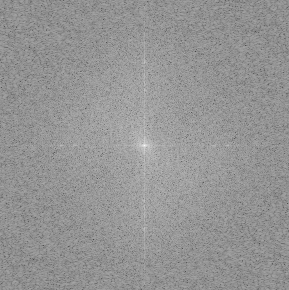
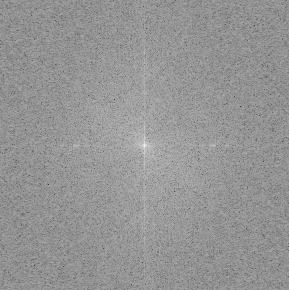
.

diff --git a/Classwork#4/FDF.py b/Classwork#4/FDF.py
@@ -5,8 +5,14 @@ def sobel_fil(img_gray):
     # Convert image to img_grayscale
         
     # Define Sobel kernels
-    sobel_x = np.array([[-1, 0, 1], [-2, 0, 2], [-1, 0, 1]])
-    sobel_y = np.array([[-1, -2, -1], [0, 0, 0], [1, 2, 1]])
+    sobel_x = np.array([
+        [1, 0, -1], 
+        [2, 0, -2], 
+        [1, 0, -1]])
+    sobel_y = np.array([
+        [1, 2, 1], 
+        [0, 0, 0], 
+        [-1, -2, -1]])
         
     # Apply Sobel kernels to the image
     grad_x = cv.filter2D(img_gray, -1, sobel_x)
@@ -29,23 +35,29 @@ def Frequency_D(img):
     magnitude = 16 * np.log(img)
     return magnitude
     
+def DotbyDot(img1, img2):
+    inF = img1
+    SobelF = img2
+    DotByDot = np.multiply(inF, SobelF)
+    DbD_img = np.fft.fftshift(DotByDot)
+    DbD_img = np.fft.fft2(DbD_img)
+    DbD_img = np.abs(DbD_img)
+    DbD_img = cv.normalize(DbD_img, None, 0, 255, cv.NORM_MINMAX, cv.CV_8U)
+    cv.imwrite('DbD_result.png', DbD_img)
 
-    
+
 img = cv.imread("Cat.png", cv.IMREAD_GRAYSCALE)
 sobel_fil(img)
 
 inF = cv.imread("Cat.png", cv.IMREAD_GRAYSCALE)
-cv.imwrite("In_F.png", Frequency_D(inF))
-
 SobelF = cv.imread("Sobel_out.png", cv.IMREAD_GRAYSCALE)
+
+cv.imwrite("In_F.png", Frequency_D(inF))
 cv.imwrite("Sobel_F.png", Frequency_D(SobelF))
 
-DotByDot = np.multiply(inF, SobelF)
-DbD_img = np.fft.ifftshift(DotByDot)
-DbD_img = np.fft.ifft2(DbD_img)
-DbD_img = np.abs(DbD_img)
-DbD_img = cv.normalize(DbD_img, None, 0, 255, cv.NORM_MINMAX, dtype=cv.CV_8U)
-cv.imwrite('DbD_result.png', DbD_img)
+inF = cv.imread("Cat.png", cv.IMREAD_GRAYSCALE)
+SobelF = cv.imread("Sobel_out.png", cv.IMREAD_GRAYSCALE)
+DotbyDot(inF, SobelF)
 
 
 #code check
